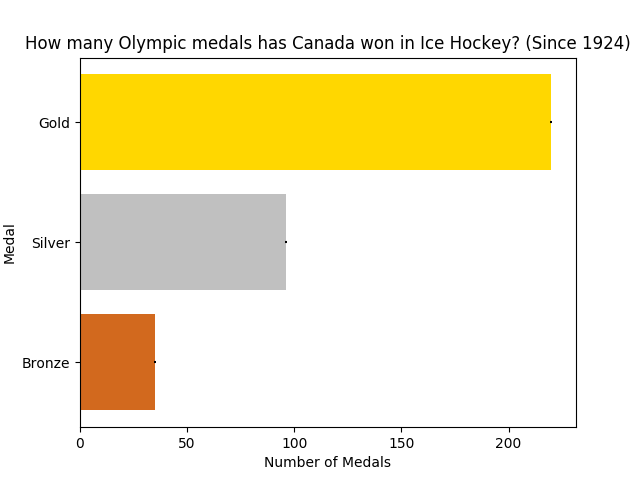
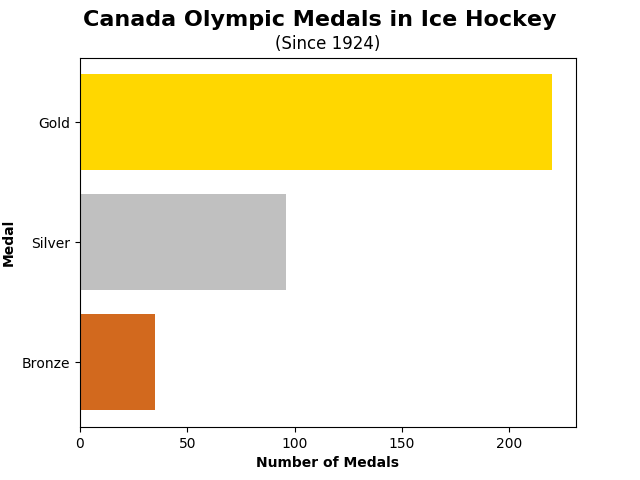
Updated photos of canadaHockeyMedals graphs

diff --git a/canadaHockeyMedals.py b/canadaHockeyMedals.py
@@ -54,10 +54,11 @@ plt.suptitle('Canada Olympic Medals in Ice Hockey', fontsize=16, fontweight='bol
 plt.title('(Since 1924)')
 
 # Draws circle in middle
-circle=plt.Circle( (0,0), 0.5, color='white')
-p=plt.gcf()
+circle = plt.Circle( (0,0), 0.5, color='white')
+p = plt.gcf()
 p.gca().add_artist(circle)
 
+# Shows graph
 plt.show()
 
 
